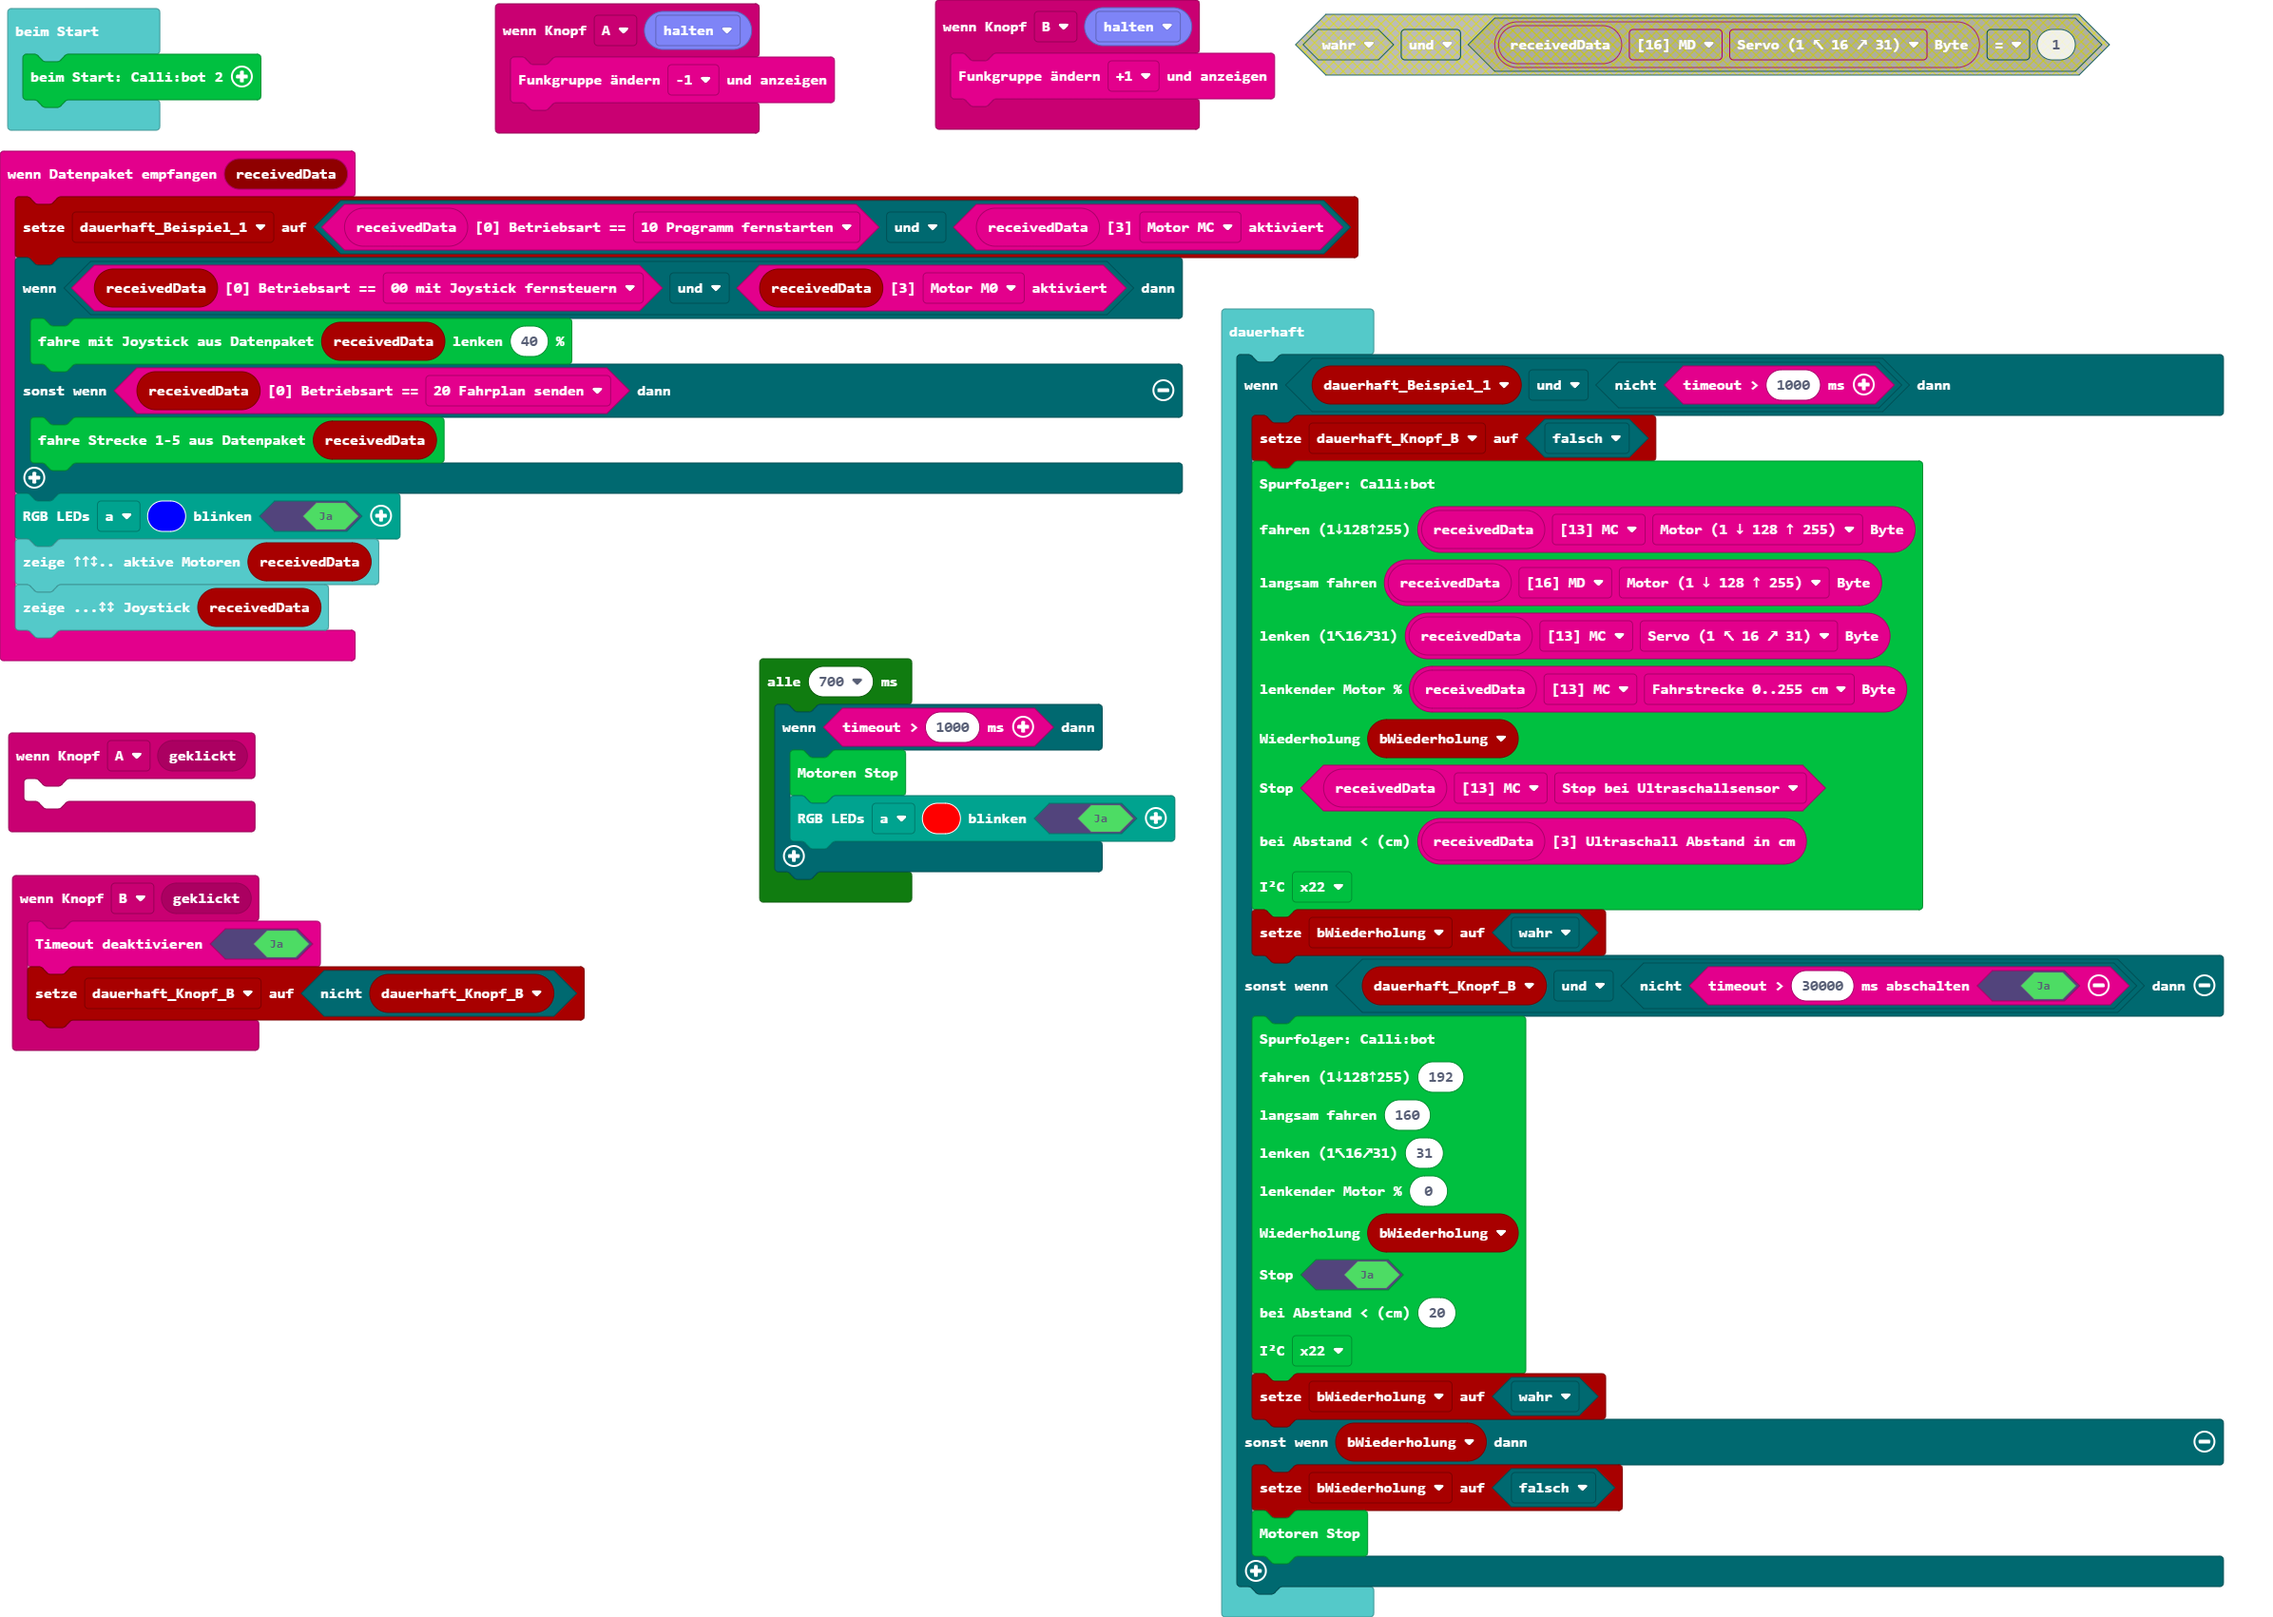
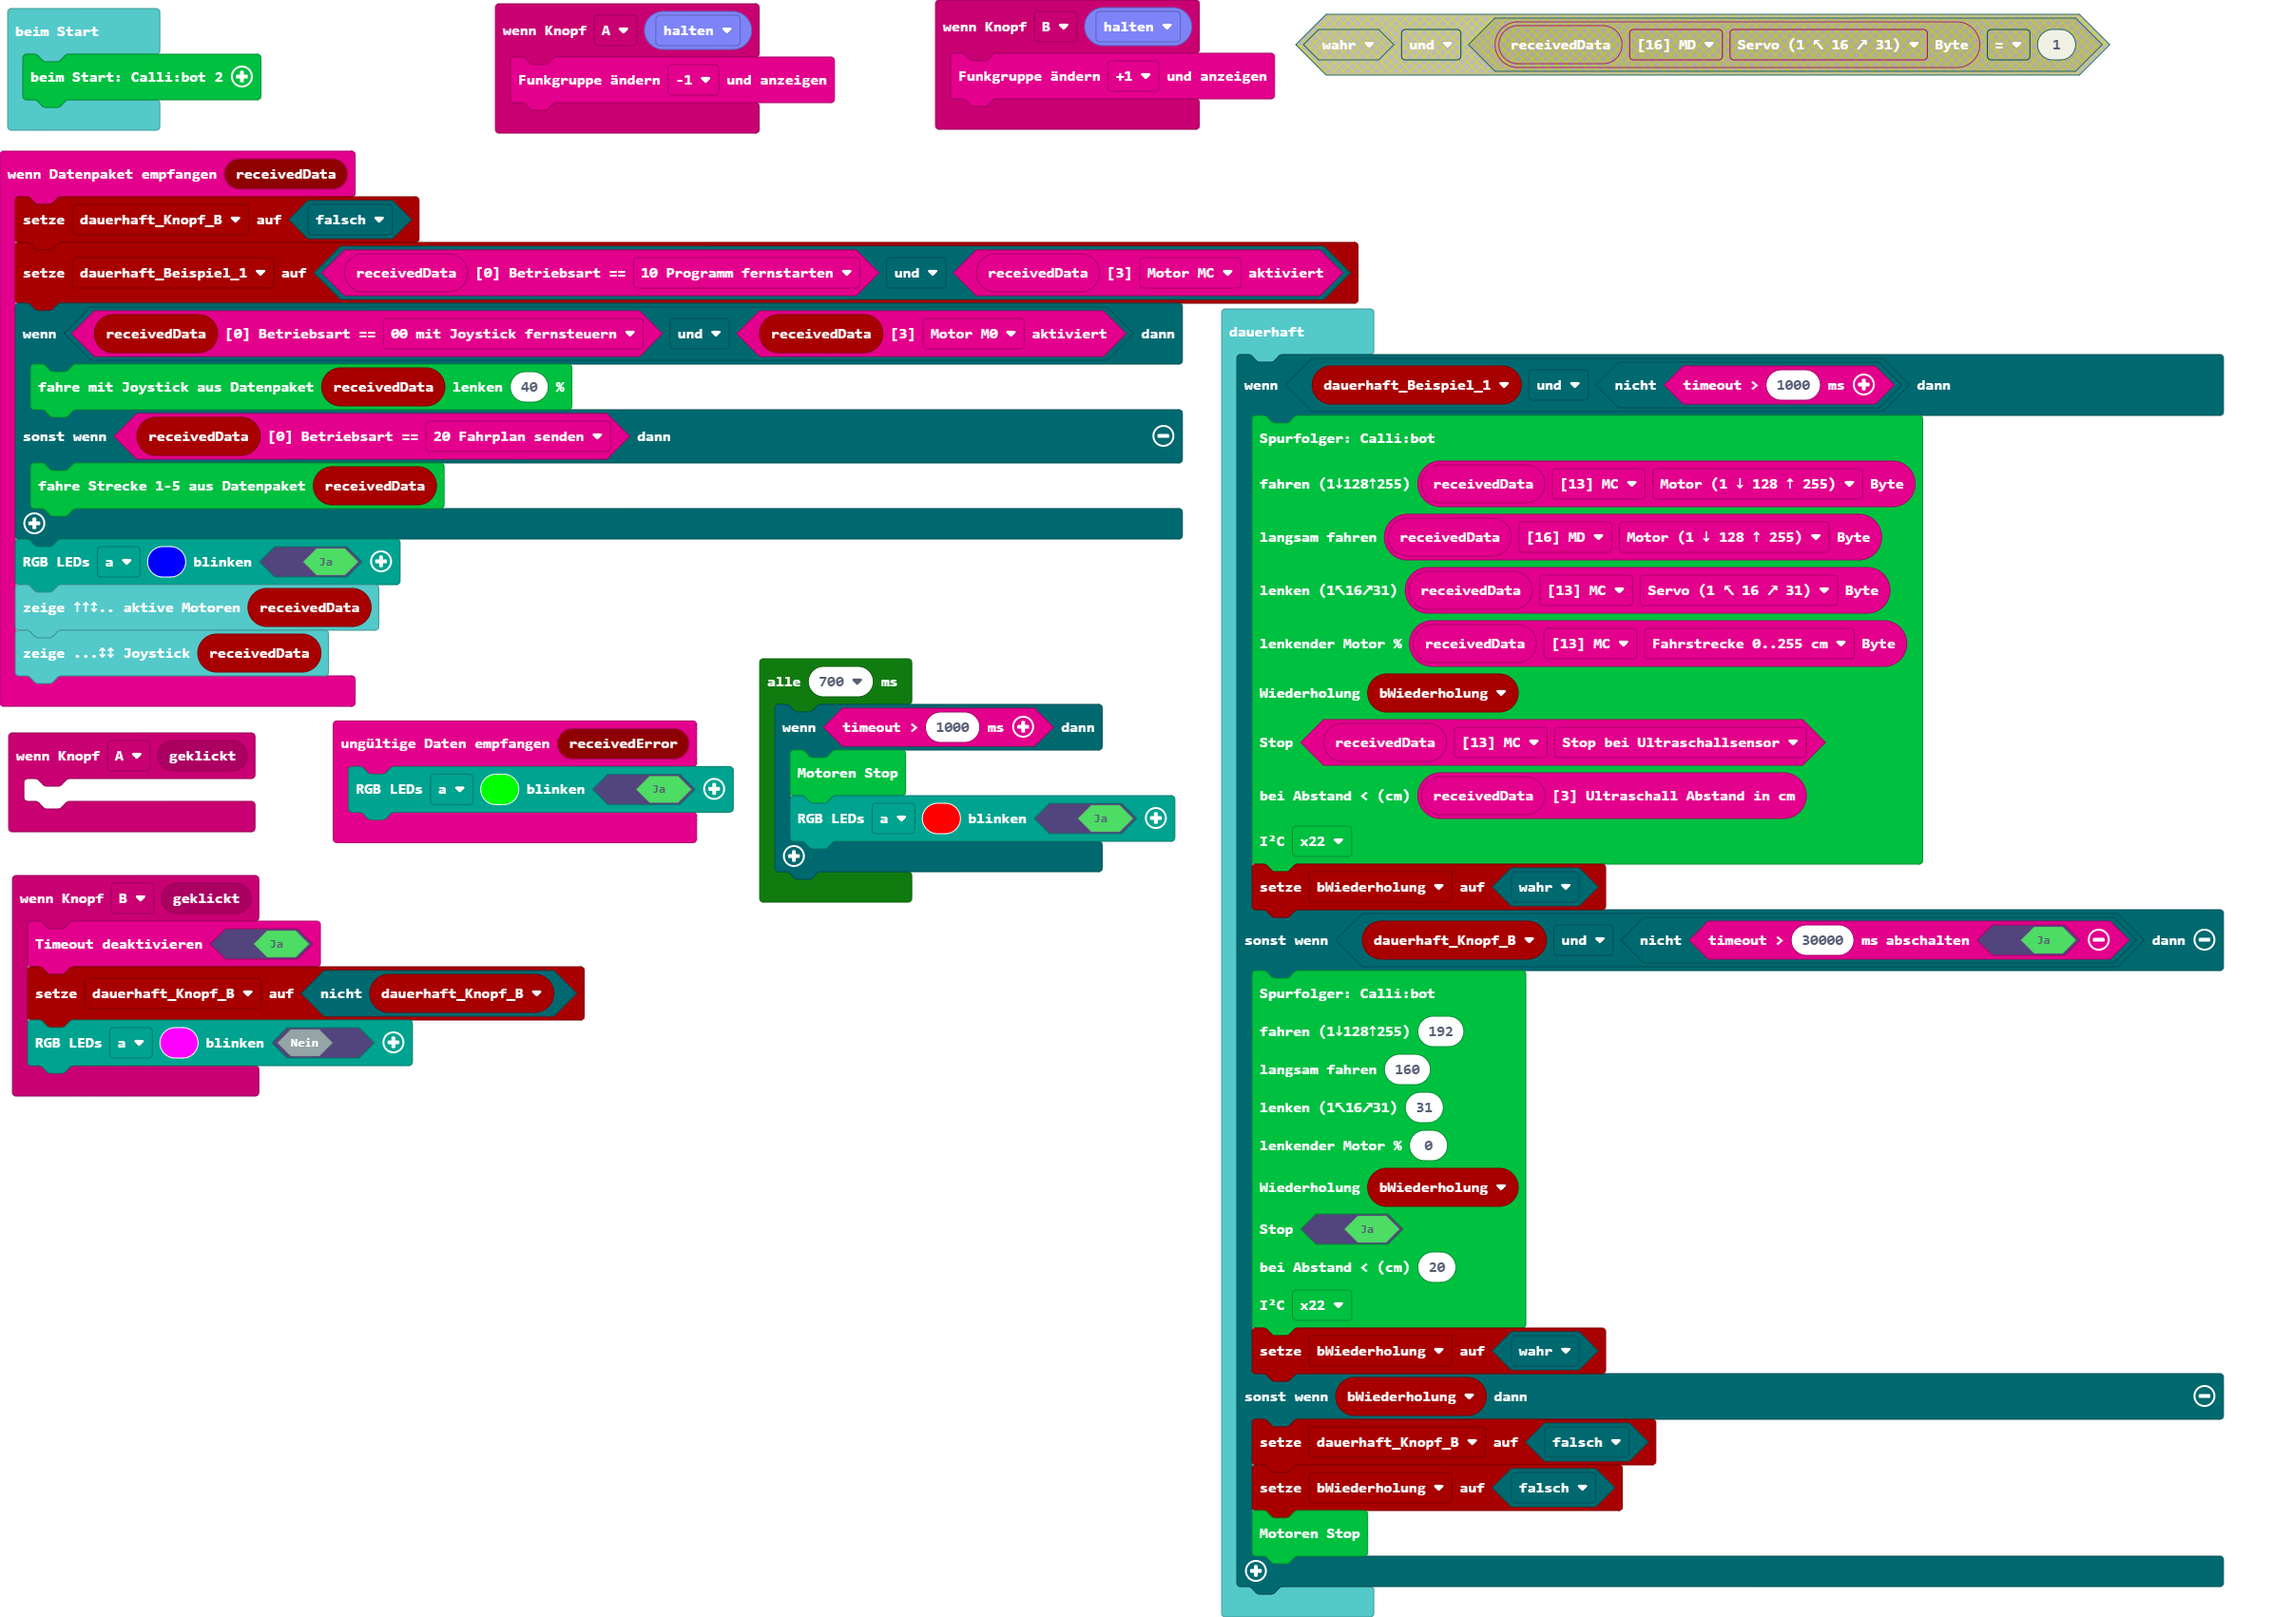
Aktualisiere pxt.json, main.blocks, main.ts

Changed region(s): [[0.0, 0.0935, 0.9904, 0.9347], [0.619, 0.0, 0.9285, 0.0623], [0.0, 0.6232, 0.1857, 0.6855]]

diff --git a/main.ts b/main.ts
@@ -4,11 +4,16 @@ input.onButtonEvent(Button.A, input.buttonEventClick(), function () {
 input.onButtonEvent(Button.B, input.buttonEventClick(), function () {
     btf.set_localProgram(true)
     dauerhaft_Knopf_B = !(dauerhaft_Knopf_B)
+    receiver.rgbLEDs(receiver.eRGBled.a, 0xff00ff, false)
+})
+btf.onReceivedError(function (receivedError) {
+    receiver.rgbLEDs(receiver.eRGBled.a, 0x00ff00, true)
 })
 input.onButtonEvent(Button.B, btf.buttonEventValue(ButtonEvent.Hold), function () {
     btf.setFunkgruppeButton(btf.eFunkgruppeButton.plus)
 })
 btf.onReceivedData(function (receivedData) {
+    dauerhaft_Knopf_B = false
     dauerhaft_Beispiel_1 = btf.isBetriebsart(btf.btf_receivedBuffer19(), btf.e0Betriebsart.p1Lokal) && btf.getaktiviert(btf.btf_receivedBuffer19(), btf.e3aktiviert.mc)
     if (btf.isBetriebsart(receivedData, btf.e0Betriebsart.p0Fahren) && btf.getaktiviert(receivedData, btf.e3aktiviert.m0)) {
         cb2.fahreJoystick(receivedData, 40)
@@ -28,7 +33,6 @@ let dauerhaft_Knopf_B = false
 cb2.beimStart()
 basic.forever(function () {
     if (dauerhaft_Beispiel_1 && !(btf.timeout(1000))) {
-        dauerhaft_Knopf_B = false
         cb2.beispielSpurfolger16(
         btf.getByte(btf.btf_receivedBuffer19(), btf.eBufferPointer.mc, btf.eBufferOffset.b0_Motor),
         btf.getByte(btf.btf_receivedBuffer19(), btf.eBufferPointer.md, btf.eBufferOffset.b0_Motor),
@@ -53,6 +57,7 @@ basic.forever(function () {
         )
         bWiederholung = true
     } else if (bWiederholung) {
+        dauerhaft_Knopf_B = false
         bWiederholung = false
         cb2.writeMotorenStop()
     }
